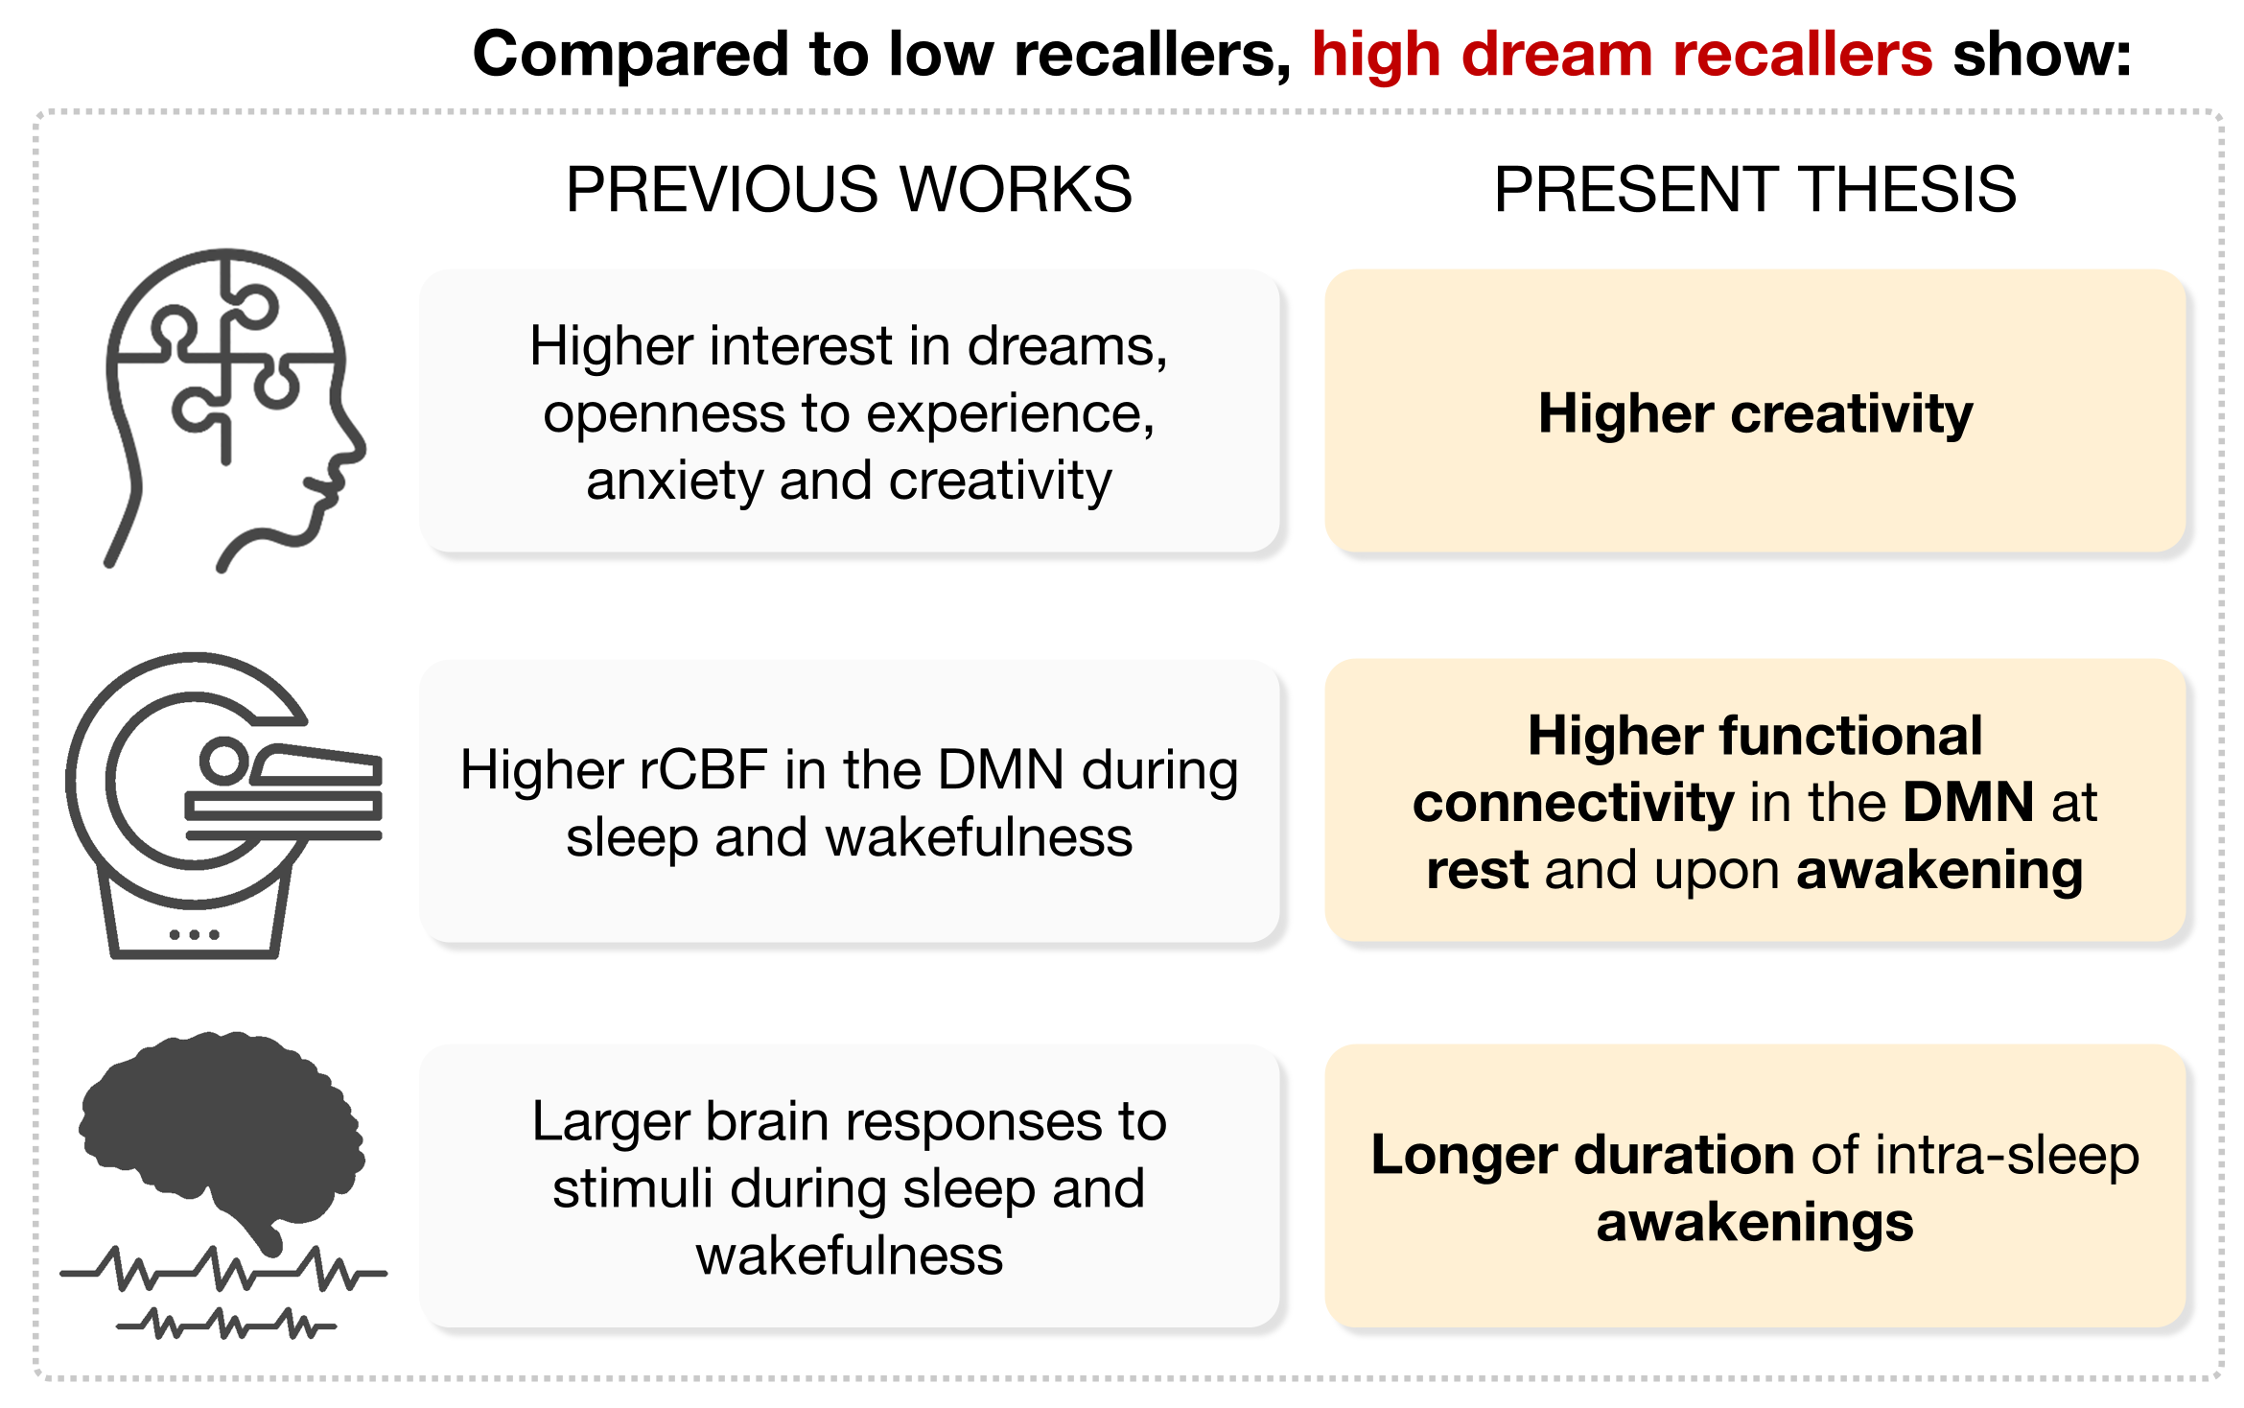
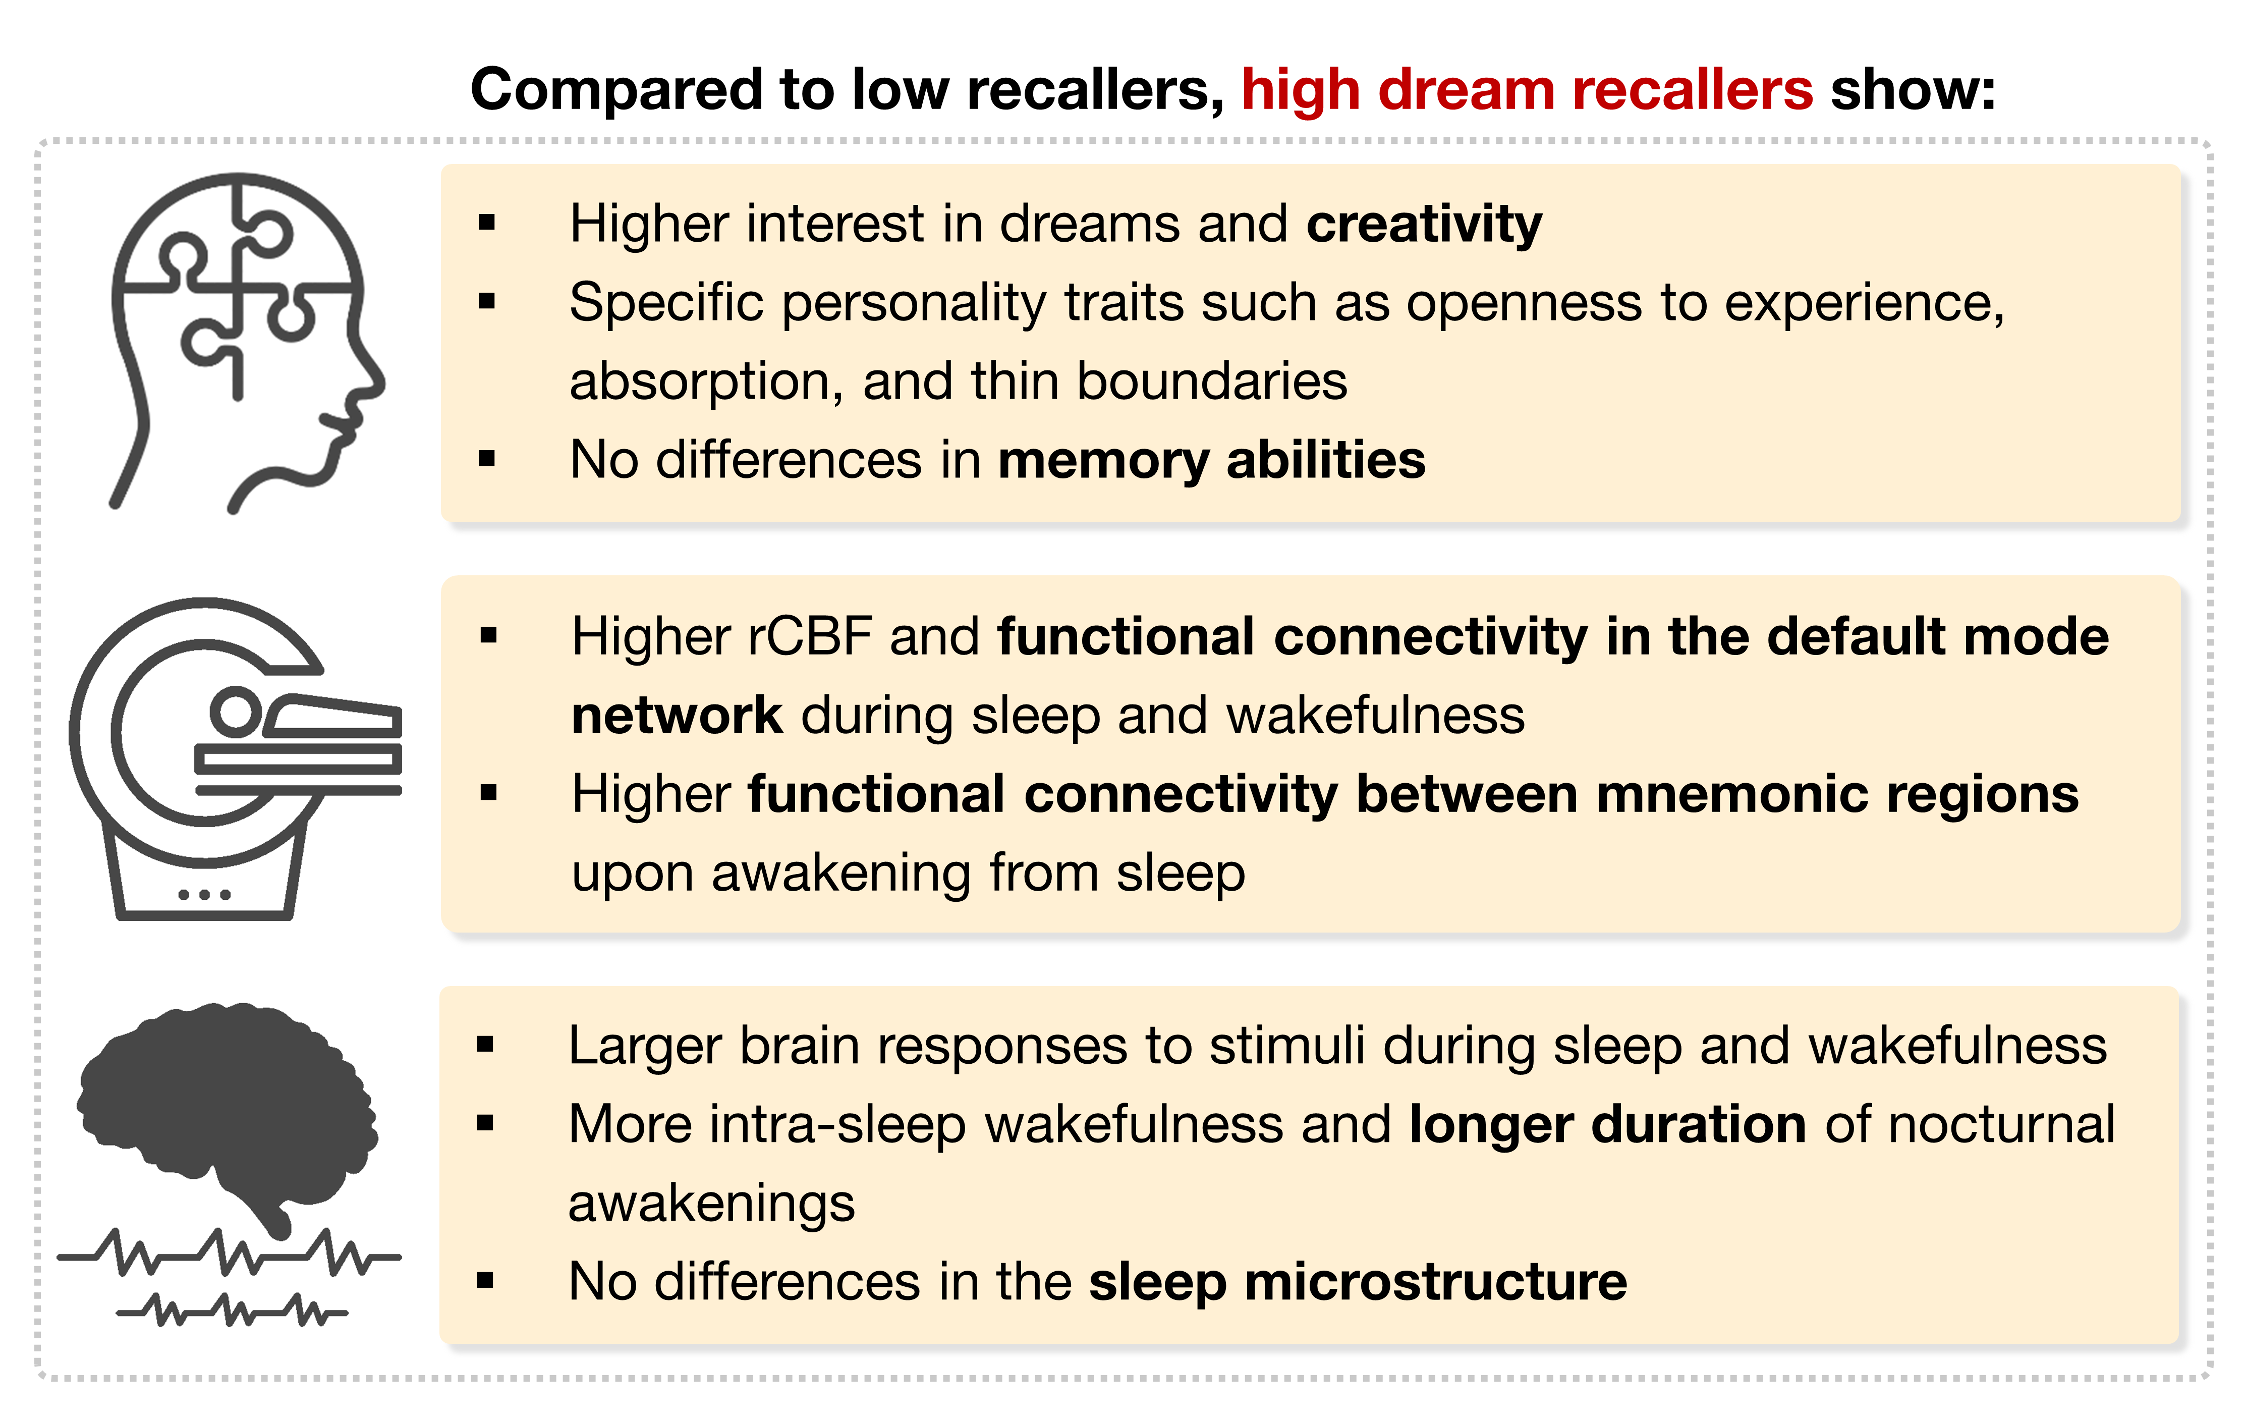
improved figure HR recap + modifs discussion

diff --git a/content/discussion.tex b/content/discussion.tex
@@ -5,11 +5,11 @@
 \section{Summary of the results}
 \label{disc:drf:summary}
 
-One of the major objectives of the present thesis was to investigate the neurophysiological and behavioral correlates of inter-individual variability in dream recall frequency (DRF). Based on previous findings, we hypothesized that DRF is associated with a specific brain functioning during both sleep and wakefulness. To test this hypothesis, we compared several cognitive, psychological and neurophysiological variables in high and low dream recallers (HR and LR, respectively). The main findings are summarized in Fig \ref{fig:disc:drf:summary}.
+One of the major objectives of the present thesis was to investigate the neurophysiological and behavioral correlates of inter-individual variability in dream recall frequency (DRF). Based on previous findings, we hypothesized that DRF is associated with a specific psychological and physiological functioning during both sleep and wakefulness. To test this hypothesis, we conducted several experiments to compare the brain activity, sleep parameters, cognitive abilities and personality traits of high and low dream recallers (HR and LR, respectively). The main findings of our experiments are summarized in Fig \ref{fig:disc:drf:summary}.
 
 \begin{figure}[!htb]
 	\includegraphics[width=\textwidth]{Fig/Discussion/HR_recap.png}
-	\caption[Summary of the results on DRF]{Summary of the behavioral and neurophysiological differences observed between high and low dream recallers.}
+	\caption[Summary of the results on DRF]{Summary of the differences observed between high and low dream recallers. \emph{Top}. Psychological and cognitive variables. \emph{Middle}. Regional cerebral blood flow (rCBF) and functional connectivity. \emph{Bottom}. Sleep parameters and event-related potentials. The findings of the present thesis are written in bold.}
 	\label{fig:disc:drf:summary}
 \end{figure}
 
@@ -53,8 +53,6 @@ The results of the present thesis led us to propose a comprehensive model of dre
 The main assumption of this model is that successful dream recall requires the encoding, during the sleep-wake transition, of the dream short-term memory into a more stable long-term memory. As proposed by \citet{koulack_dream_1976} and since then confirmed in numerous studies, this process is not possible during sleep but only during wakefulness. Consistent with this, we reported earlier that DRF is positively associated with intra-sleep wakefulness, and notably with the duration of awakenings. This observation led us to propose that intra-sleep awakenings must be of sufficient duration to allow the reactivation of the memory encoding abilities of the brain. Furthermore, according to our model, the period following awakening from sleep is influenced on one side by the severity of sleep inertia, which is directly related to the physiological context (e.g. prior sleep stage, depth and duration), and on the other side by traits factors such as the interest in dreams, which may result in a stronger focus on dream content immediately upon awakening, and therefore less interferences in the encoding process. However, these variables affecting the encoding process does not explain the full inter-individual variability in DRF given that even when awakened and asked to recall their dreams in controlled laboratory conditions, LR still reports less dream than HR \citep{eichenlaub_brain_2014, eichenlaub_resting_2014}.
 
 Consequently, another factor that we believe play a crucial role is the salience of the dream content. This idea that was first proposed by \citet{cohen_test_1974} and received further support from studies showing that bizarreness and emotionality enhance dream recall \citep{cipolli_bizarreness_1993, schredl_emotions_1998}. In other words, the more salient a dream is (e.g. vivid, bizarre, emotionally intense), the more likely it will be recalled.  At a lower level, our model incorporates Schonbar's life-style hypothesis \citeyearpar{schonbar_differential_1965} to postulate that all these processes (e.g. salience, interference, sleep inertia) are influenced by the life-style, personality traits and cognitive abilities of the dreamer. One of the key finding of the present thesis is that these differential cognitive and personality profile between high and low dream recallers are also associated with a specific brain functional organization, notably in the default mode network. According to our model, this specific neurophysiological profile could promote in HR some cognitive abilities such as creativity, which would in turn increase the salience of dream content and promote intra-sleep awakenings. These two factors, associated in HR with reduced brain functional alterations and interferences upon awakening, could facilitate the encoding of dreams and result in an increased dream recall frequency.
-
-%%%%%% SEE BLAGROVE PACE SCHOTT 2010
 
 \begin{figure}[!htbp]
 	\includegraphics[width=\textwidth]{Fig/Discussion/schema_dream_recall.png}
